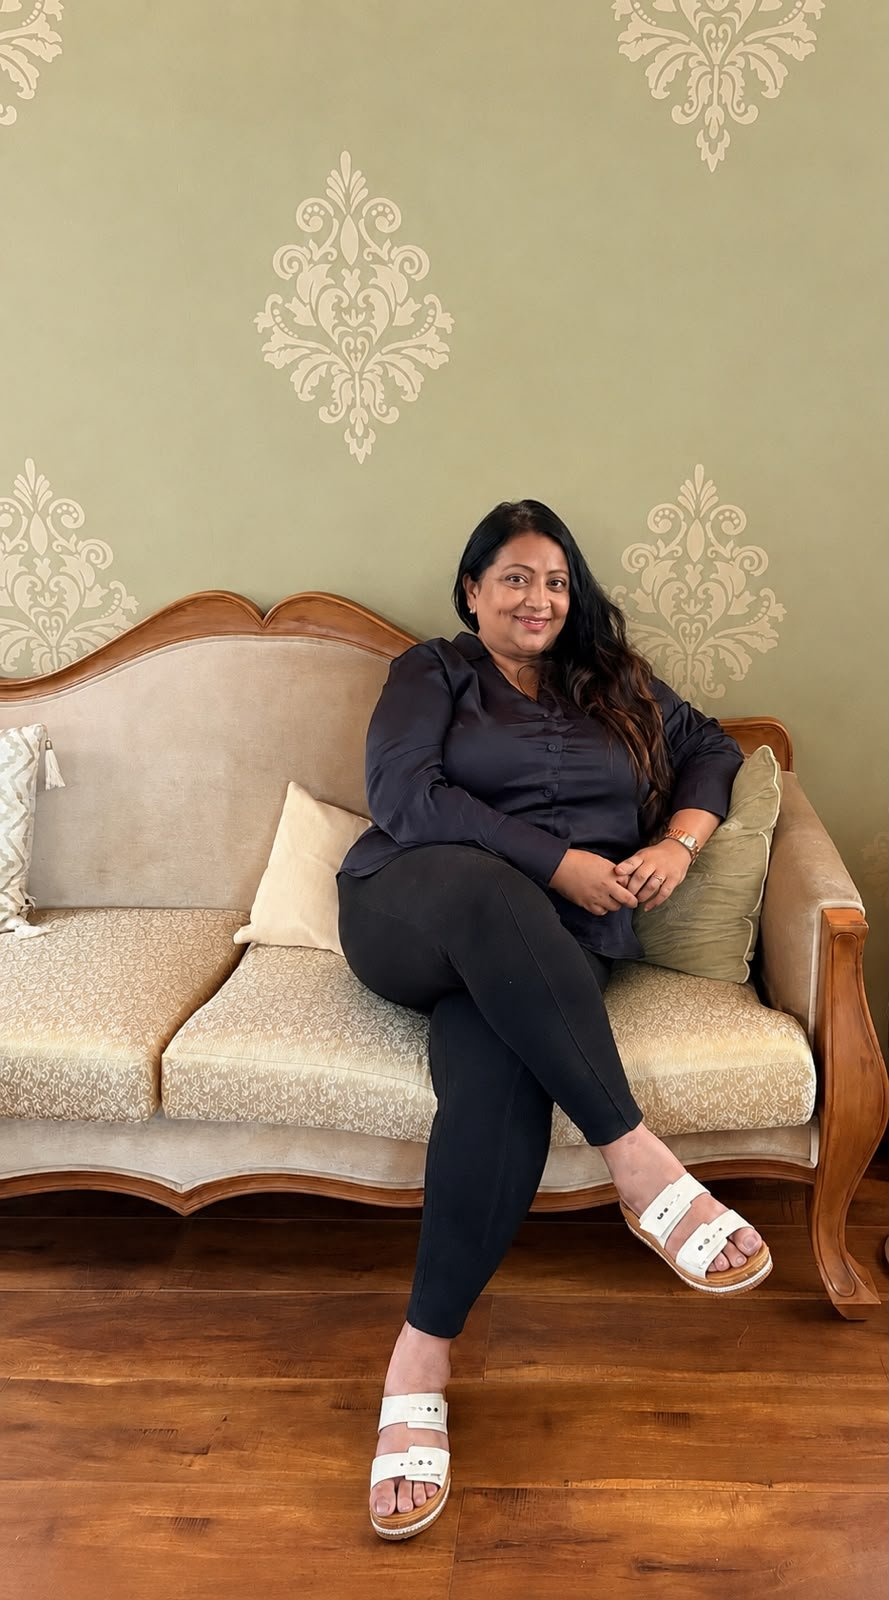
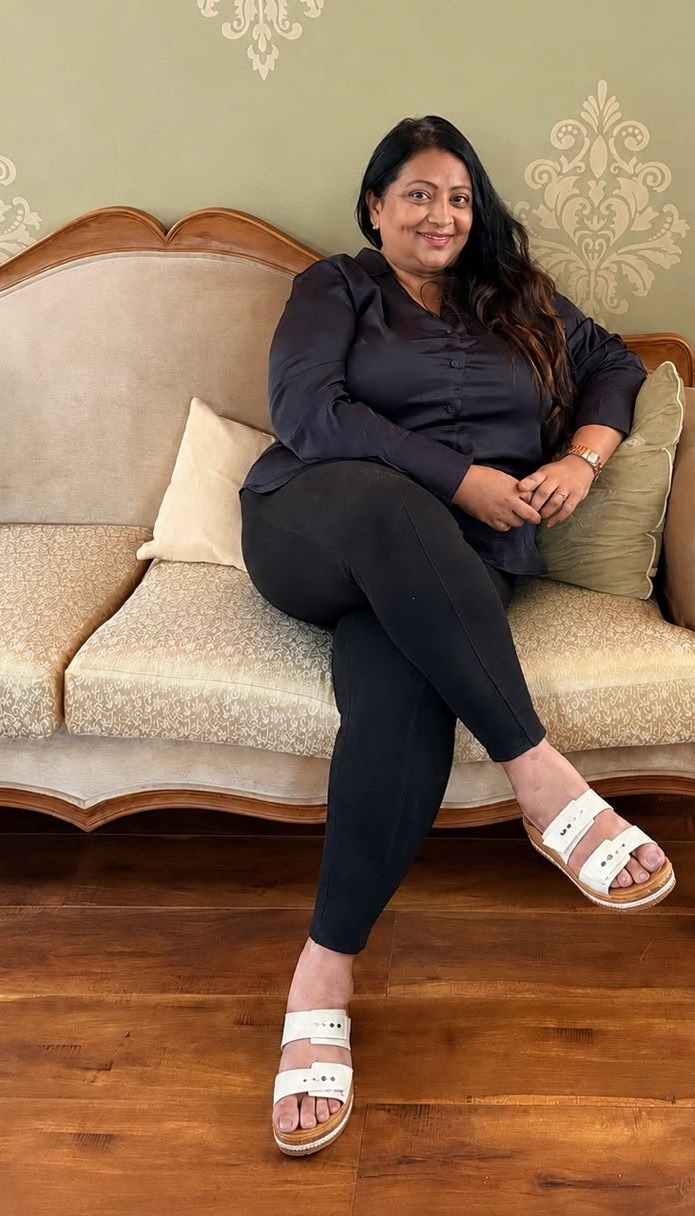
Crop Lakshmi Keerthi's founder portrait tighter to bring her more into focus
Trims empty wall/couch space (top ~24%, sides ~11% each) so she fills
more of the frame on both the founders grid card and her profile page.

diff --git a/lakshmi-keerthi.html b/lakshmi-keerthi.html
@@ -84,7 +84,7 @@
       <div class="founder-v2-media">
         <span class="founder-v2-blob" aria-hidden="true"></span>
         <div class="founder-v2-frame">
-          <img src="assets/images/founder-lakshmi-portrait.jpg" alt="Lakshmi Keerthi, Founder of The Wedding Business School" width="889" height="1600" loading="lazy">
+          <img src="assets/images/founder-lakshmi-portrait.jpg" alt="Lakshmi Keerthi, Founder of The Wedding Business School" width="695" height="1216" loading="lazy">
         </div>
       </div>
       <div class="founder-v2-head">
